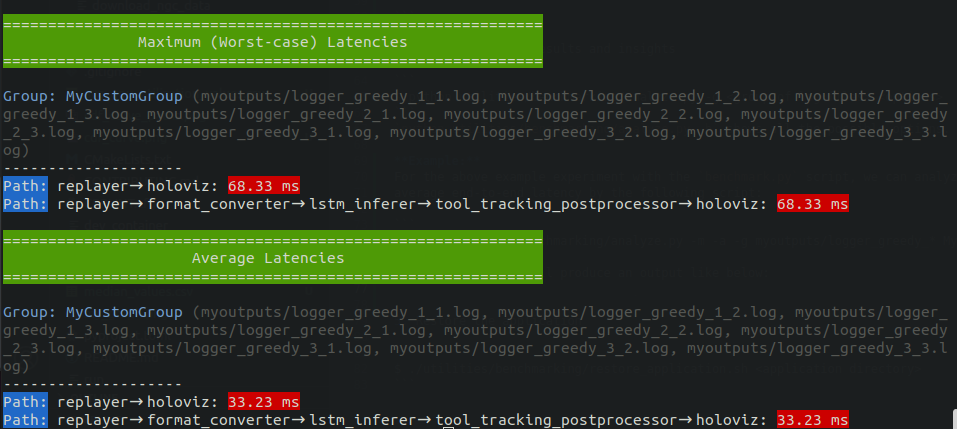
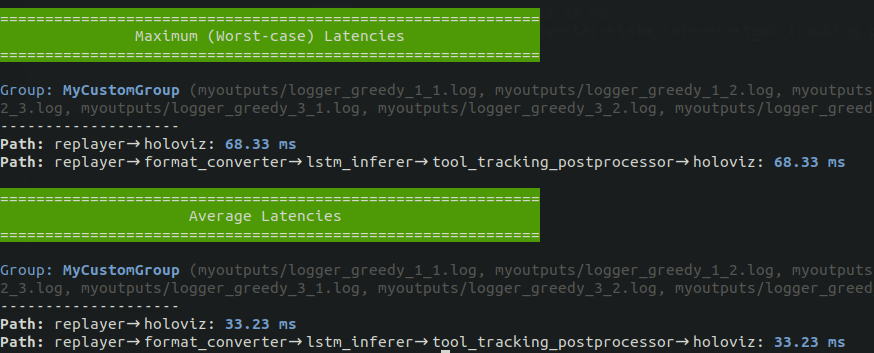
coloring change in metrics output and error

diff --git a/utilities/benchmarking/analyze.py b/utilities/benchmarking/analyze.py
@@ -166,7 +166,7 @@ def shorten_path(path, operator_legends):
             operator_legends[modified_operator_name] = operator
         else:
             if operator_legends[modified_operator_name] != operator:
-                print(f"ERROR: Operator {operator} has the same first 3 letters as {operator_legends[modified_operator_name]}")
+                print(f"\033[91mError: Operator {operator} has the same first 3 letters as {operator_legends[modified_operator_name]}\033[0m")
                 print ("CDF Curve legends for operators cannot be created. CDF Curve creation aborted.")
                 sys.exit(1)
         modified_operators.append(modified_operator_name)
@@ -182,16 +182,16 @@ def print_metric_title(title):
 def print_group_name_with_log_files(group_name, log_files):
     # print group name in blue color font
     # print log files in grey color font
-    print ("\n\033[94m" + "Group: " + group_name + "\033[0m \033[90m" + "(" + ", ".join(log_files) + ")\033[0m")
+    print ("\n\033[94m" + "Group: \033[1m" + group_name + "\033[0m \033[90m" + "(" + ", ".join(log_files) + ")\033[0m")
     print ("--------------------")
 
 def print_path_metric_ms(path, metric_ms):
     # print path in blue background
-    # print metric_ms in red backgroynd
-    print ("\033[44mPath:" + "\033[0m " + path + ": \033[41m" + str(metric_ms) + " ms\033[0m")
+    # print metric_ms in bold and blue foregoround color
+    print ("\033[1mPath:" + "\033[0m " + path + ": \033[1m\033[94m" + str(metric_ms) + " ms\033[0m")
 
 def print_metric(metric_title, metric_value):
-    print ("\033[44m" + metric_title + "\033[0m: \033[41m" + str(metric_value) + "\033[0m")
+    print ("\033[1m" + metric_title + "\033[0m: \033[1m\033[94m" + str(metric_value) + "\033[0m")
 
 # write a main function that takes a log file as argument and calls parse line
 def main():
@@ -219,10 +219,10 @@ def main():
 
     parser.add_argument("--no-display-graphs", action="store_true", help="don't display the graphs in a window. Graphs are displayed by default with --draw-cdf and --draw-cdf-paths options.", default=False, required=False)
 
-    parser.add_argument("-u", "--group-utilization-files", nargs="+", action="append", help="specify a group of the GPU utilization files to combine and analyze. You can optionally specify a group name at the end of the list of utilization files", required=False)
+    parser.add_argument("-u", "--group-utilization-files", nargs="+", action="append", help="specify a group of the GPU utilization files to combine and analyze. You can optionally specify a group name at the end of the list of utilization files. Group name must not contain any period.", required=False)
 
     requiredArgument = parser.add_argument_group('required arguments')
-    requiredArgument.add_argument("-g", "--group-log-files", nargs="+", action="append", help="specify a group of the log files to combine and analyze. You can optionally specify a group name at the end of the list of log files", required=True)
+    requiredArgument.add_argument("-g", "--group-log-files", nargs="+", action="append", help="specify a group of the log files to combine and analyze. You can optionally specify a group name at the end of the list of log files. Group name must not contain any period.", required=True)
 
     args = parser.parse_args()
 
@@ -248,7 +248,7 @@ def main():
             current_group_name = group[-1]
             current_log_files = group[:-1]
         if len(current_log_files) == 0:
-            print ("No log files provided for group: ", current_group_name)
+            print ("\033[91m" + "Error: No log files provided for group: ", current_group_name + "\033[0m")
             sys.exit(1)
         parsed_latencies_per_file = []
         for log_file in current_log_files:
@@ -393,7 +393,7 @@ def main():
                 current_util_group_name = group[-1]
                 current_gpu_util_files = group[:-1]
             if len(current_gpu_util_files) == 0:
-                print ("No GPU utilization files provided for group: ", current_util_group_name)
+                print ("\033[91m" + "Error: No GPU utilization files provided for group: ", current_util_group_name + "\033[0m")
                 sys.exit(1)
             parsed_gpu_utils = []
             for gpu_util_file in current_gpu_util_files:
